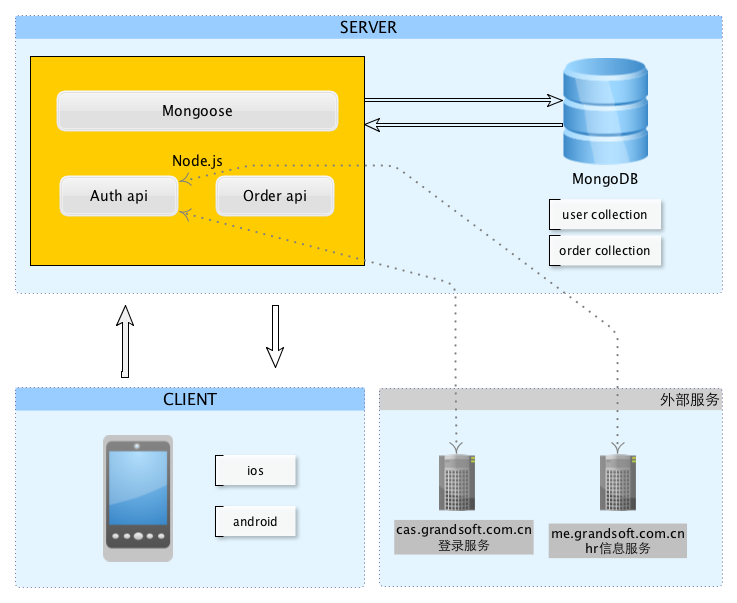
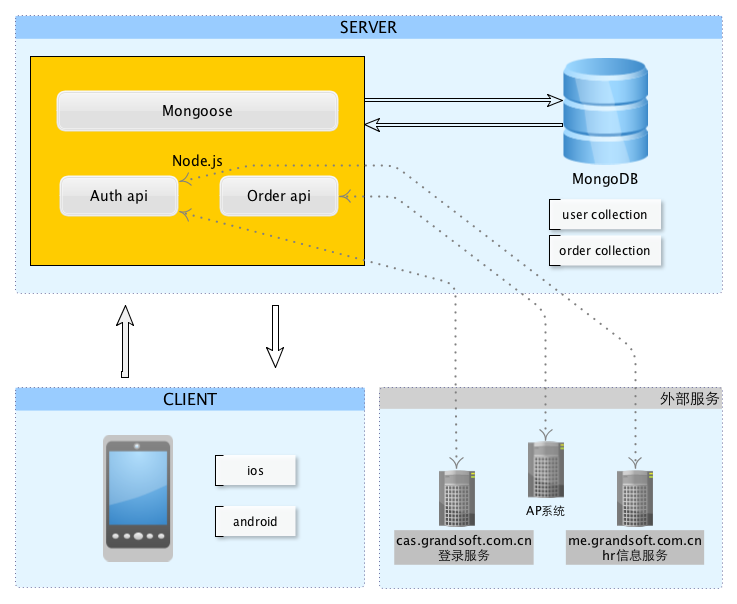
update

diff --git a/source/_posts/salesperson.md b/source/_posts/salesperson.md
@@ -4,14 +4,17 @@ categories: 设计文档
 tags: 
 - hybrid
 - nodejs
+- angularJs
+- cordova
+- mongoDB
 ---
 
-一个移动端（hybrid app）混合应用，销售员通过域帐号认证登录，查看从 AP 系统推送过来的信息并且可以一键拨打客户电话。 
+一个移动端（hybrid app）混合应用，销售员通过域帐号认证登录，查看从 AP 系统推送过来的信息，一键拨打客户电话并且确认是否跟踪订单。
 
 ## 用到的技术
 | 移动端 | 服务端 | 开发工具 | 
 |:-------------------:|:-------------------:|:-------------------:| 
-| [Angular.js](http://angularjs.org/) [![Angularjs](https://avatars1.githubusercontent.com/u/139426?s=30)]() | [Node.js](http://nodejs.org/) <img src="http://nodejs.org/images/logo-light.svg" height="30" width="80" /> | [Gulp](http://gulpjs.com/) ![Gulp](https://avatars0.githubusercontent.com/u/6200624?s=30) &nbsp; [Bower](http://bower.io/) ![Bower](https://avatars3.githubusercontent.com/u/3709251?s=30) | 
+| [Angular.js](http://angularjs.org/) ![Angular.js](https://avatars1.githubusercontent.com/u/139426?s=30) | [Node.js](http://nodejs.org/) <img src="http://nodejs.org/images/logo-light.svg" height="30" width="80" /> | [Gulp](http://gulpjs.com/) ![Gulp](https://avatars0.githubusercontent.com/u/6200624?s=30) &nbsp; [Bower](http://bower.io/) ![Bower](https://avatars3.githubusercontent.com/u/3709251?s=30) | 
 | [Ionic](http://ionicframework.com/) <img src="http://upload.wikimedia.org/wikipedia/commons/d/d1/Ionic_Logo.svg" height="45" width="80" /> | [MongoDB](http://www.mongodb.org/) ![MongoDB](https://avatars3.githubusercontent.com/u/45120?v=2&s=30) | [NPM](https://www.npmjs.org/) ![NPM](https://avatars0.githubusercontent.com/u/6078720?s=30) &nbsp; [Ansible](https://www.ansible.com/) ![Ansible](https://avatars3.githubusercontent.com/u/1507452?v=2&s=30) | 
 | [Material Design](https://material.angularjs.org/) ![Angularjs](https://avatars1.githubusercontent.com/u/139426?s=30) | [Express.js](http://expressjs.com/)<img src="https://cldup.com/wpGXm1cWwB.png" height="40" width="145"> | [Vagrant](http://www.vagrantup.com/) <img src="https://www.vagrantup.com/images/logo_vagrant-81478652.png" height="40" width="145"> | 
 | [Cordova](https://cordova.apache.org/) <img src="https://cordova.apache.org/images/cordova_256.png" height="35" width="45" /> | [Redis](http://redis.io/) <img src="http://upload.wikimedia.org/wikipedia/en/thumb/6/6b/Redis_Logo.svg/467px-Redis_Logo.svg.png?v=2&s=30" height="35" width="125"> | &nbsp; | 
@@ -23,8 +26,49 @@ tags:
 ### 数据库层
 选择MongoDB数据库,因为它易于存储JSON文档，且比较灵活。数据库有2个(collections)集合。
 
-1. **User** - 存储销售员基本信息
-2. **Order** - 存储销售员接收到的订单信息
+1. **users** - 存储销售员基本信息, 下面是doc结构：
+{% codeblock User %}
+    {
+        name:  "姓名",
+        username: "用户名",
+        password: "密码",
+        salt: "",
+        sex: "性别",
+        nation: "民族",
+        provider: "local",// passport strategy
+        updated: Date,
+        created: Date
+    }
+{% endcodeblock %} 
+    
+2. **orders** - 存储销售员接收到的订单信息, 下面是doc结构：
+{% codeblock Order %}
+    {
+        "employee": {
+            "id": "id43214",
+            "name": "李文",
+            "phone": "15210104324", //电话
+            "company": "中国海外建设" //公司名称
+        },
+        "salesperson": "wangqh-a", //销售员ID
+        "toTrack": false, //是否跟进
+        "hasPirate": true, // 是否有盗版
+        "projects": [ 
+            {
+                "name": "工程名称",
+                "hasPirate": true, // 是否有盗版
+                "details": [
+                    {
+                        "keyNumber": "v423423",
+                        "isPirate": true, // 是否为盗版
+                        "notes": "", // 备注
+                        "usedTime": 432142214324 // 使用时间
+                    }
+                ]
+            }
+        ]
+    }
+{% endcodeblock %} 
 
 ### REST 服务层
 这是整个应用的核心。已认证过的用户，向服务层请求时，根据不同请求作不同的数据库操作。
@@ -35,8 +79,23 @@ tags:
 * 使用JWT生成和验证Token
 * 使用Redis管理与存储Token
 
+**服务端 Route**
+1. Sign In: **登录** 先在本地库中查询是否存在用户，存在即返回 Token；
+    不存在就向公司域帐号请求认证，成功后向hr系统请求用户信息并保存到数据库。
+2. Sign Out: **退出** 删除当前 Token
+3. Orders: **订单** 接收从AP系统推送的订单，并用JPush推到前端。
+4. Track Order: **跟踪订单** 把跟踪状态置为 true
+
 ### 客户端层
 下列是主要用到的技术
 * 主框架使用 IONIC(cordova + angularJs)
 * 主题使用 Angular Material
 * 消息推送使用 jPush 第三方服务
+
+
+** 客户端 Route **
+1. Sign In: 登录页
+2. Profile: 销售员个人信息页面
+3. Orders: 订单页面，列出ap系统推送给销售员的订单
+4. Projects: 工程页面，订单的下级页面，列出此订单里的所有工程
+5. Detail: 工程详情页，工程的下级页面，列出此工程里的详细信息
